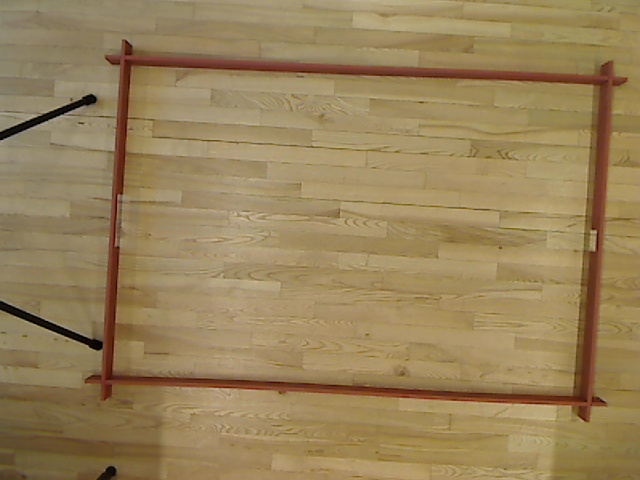
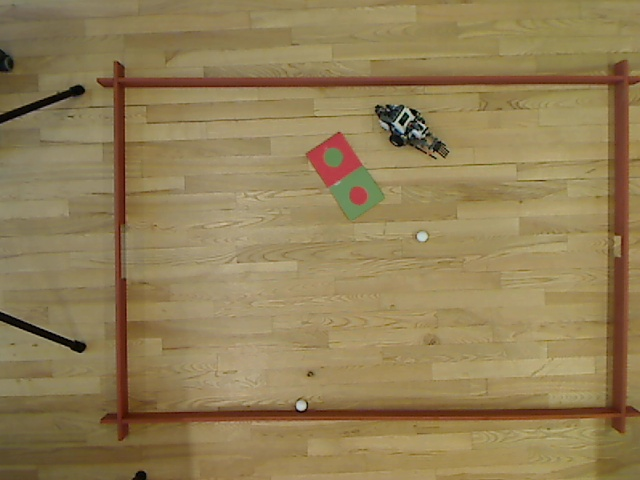
Signed-off-by: Sædvanlige ændringer :D <Emil@10.16.106.85>

diff --git a/ImageTest/src/dist/Angletest.java b/ImageTest/src/dist/Angletest.java
@@ -1,0 +1,20 @@
+package dist;
+
+public class Angletest {
+
+	public static void main(String[] args) {
+		Punkt roboFrontPunkt = new Punkt(3,2);
+		Punkt roboBagPunkt = new Punkt(2,2);
+		Punkt minPunkt = new Punkt(2,3);
+		
+		Punkt nyRoboFront = new Punkt(roboFrontPunkt.getX()-roboBagPunkt.getX(),roboFrontPunkt.getY()-roboBagPunkt.getY());
+		Punkt nyRoboBag = new Punkt(0,0);
+		Punkt nyMinPunkt = new Punkt(minPunkt.getX()-roboBagPunkt.getX(),minPunkt.getY()-roboBagPunkt.getY());
+		
+		CalcAngle Angle = new CalcAngle();
+		int BallAngle = Angle.Calcangle(nyRoboBag, nyMinPunkt);
+		int RoboAngle = Angle.Calcangle(nyRoboBag, nyRoboFront);
+		int TurnAngle = BallAngle - RoboAngle;
+		System.out.println("turnangle = " + TurnAngle);
+	}
+}
